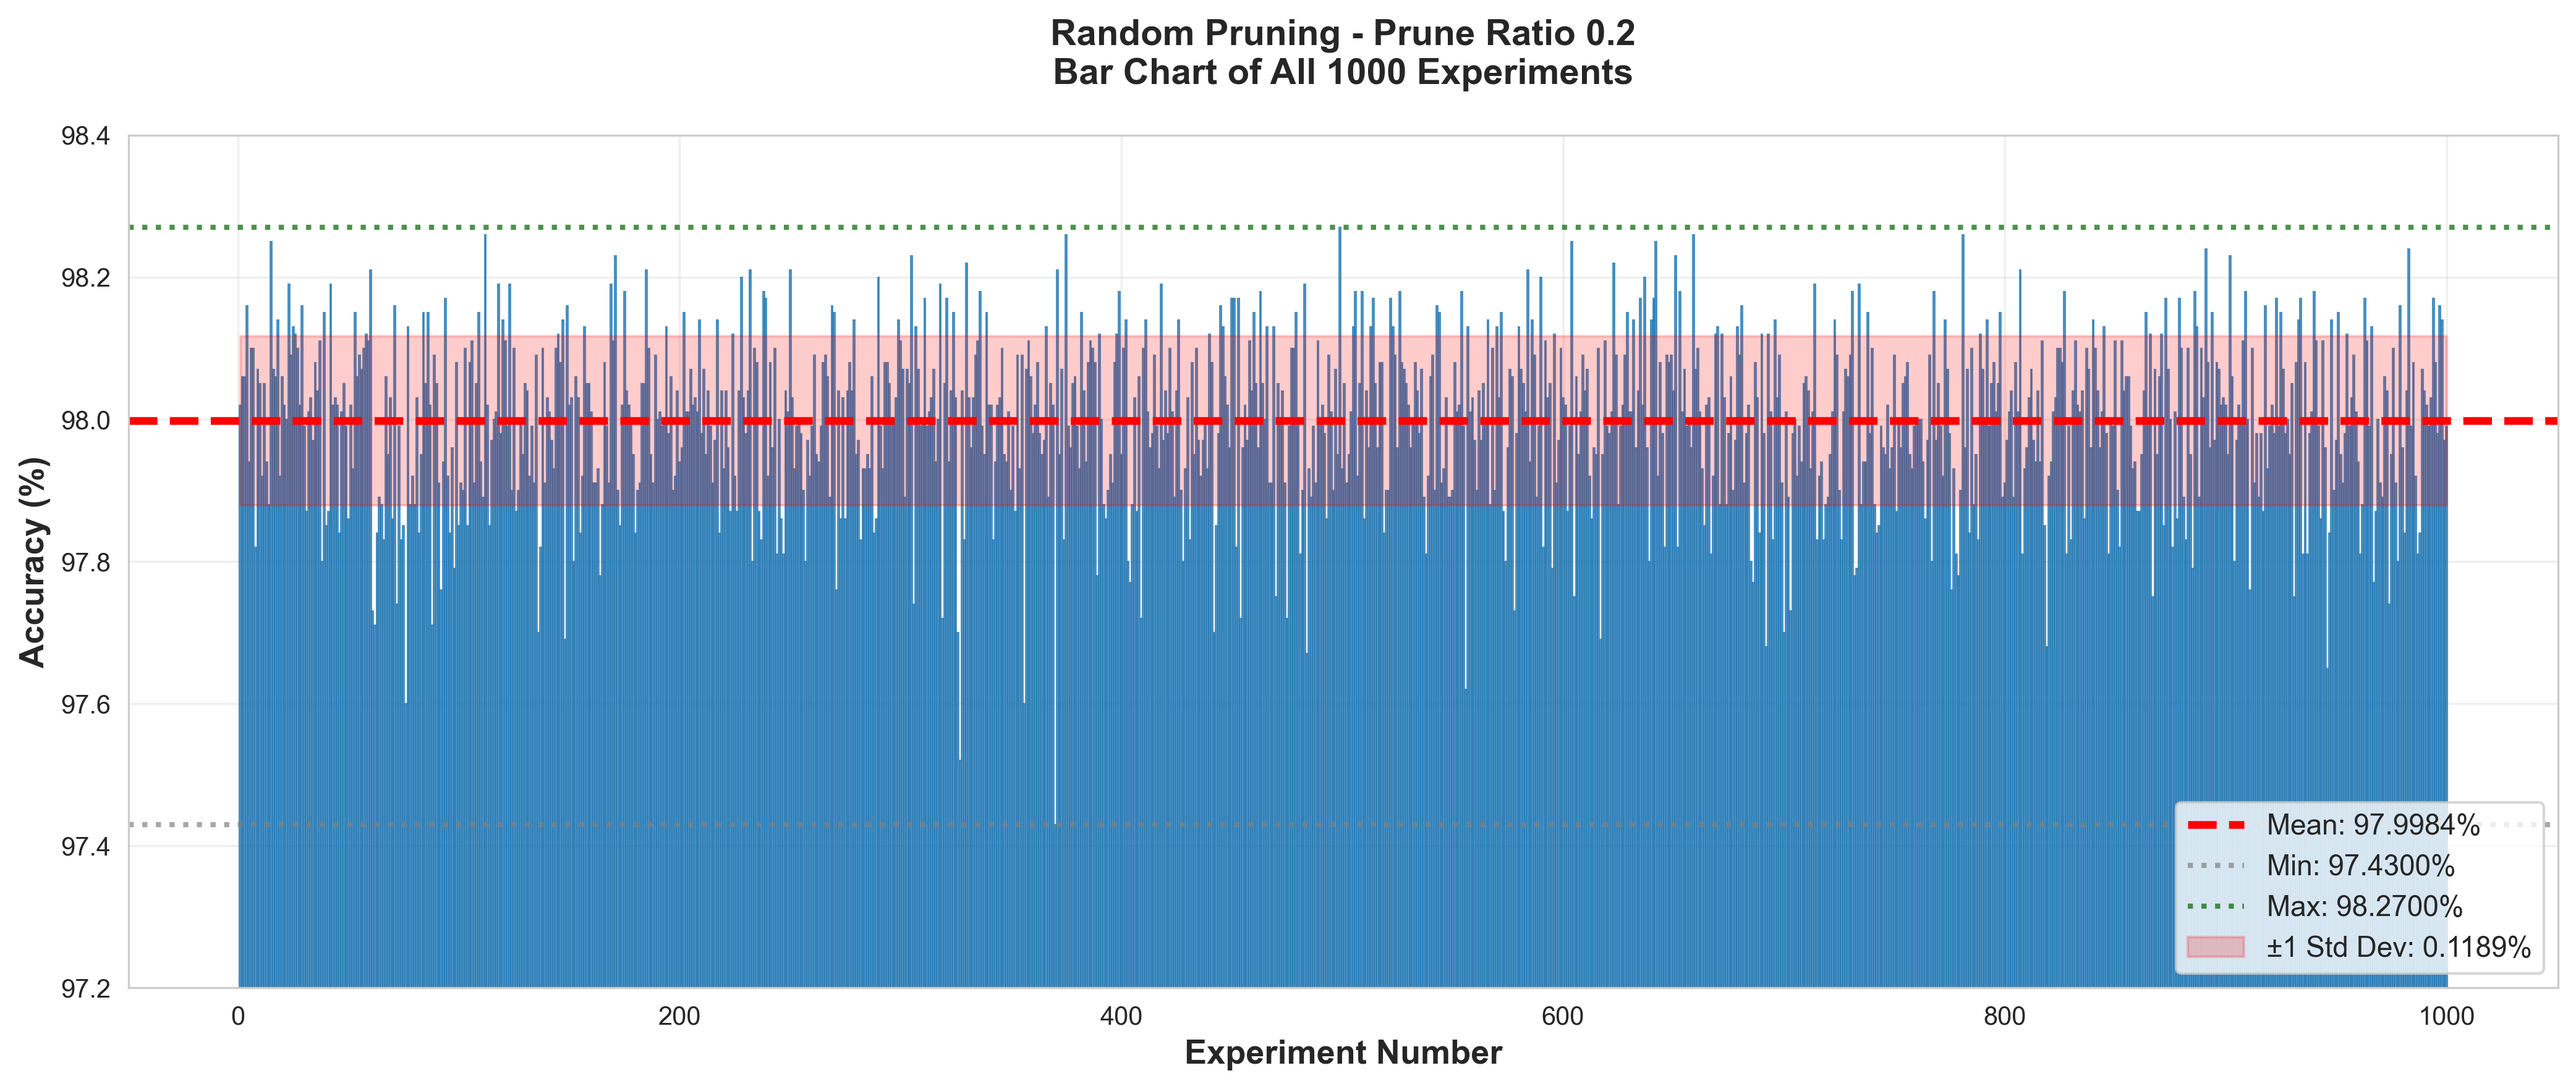
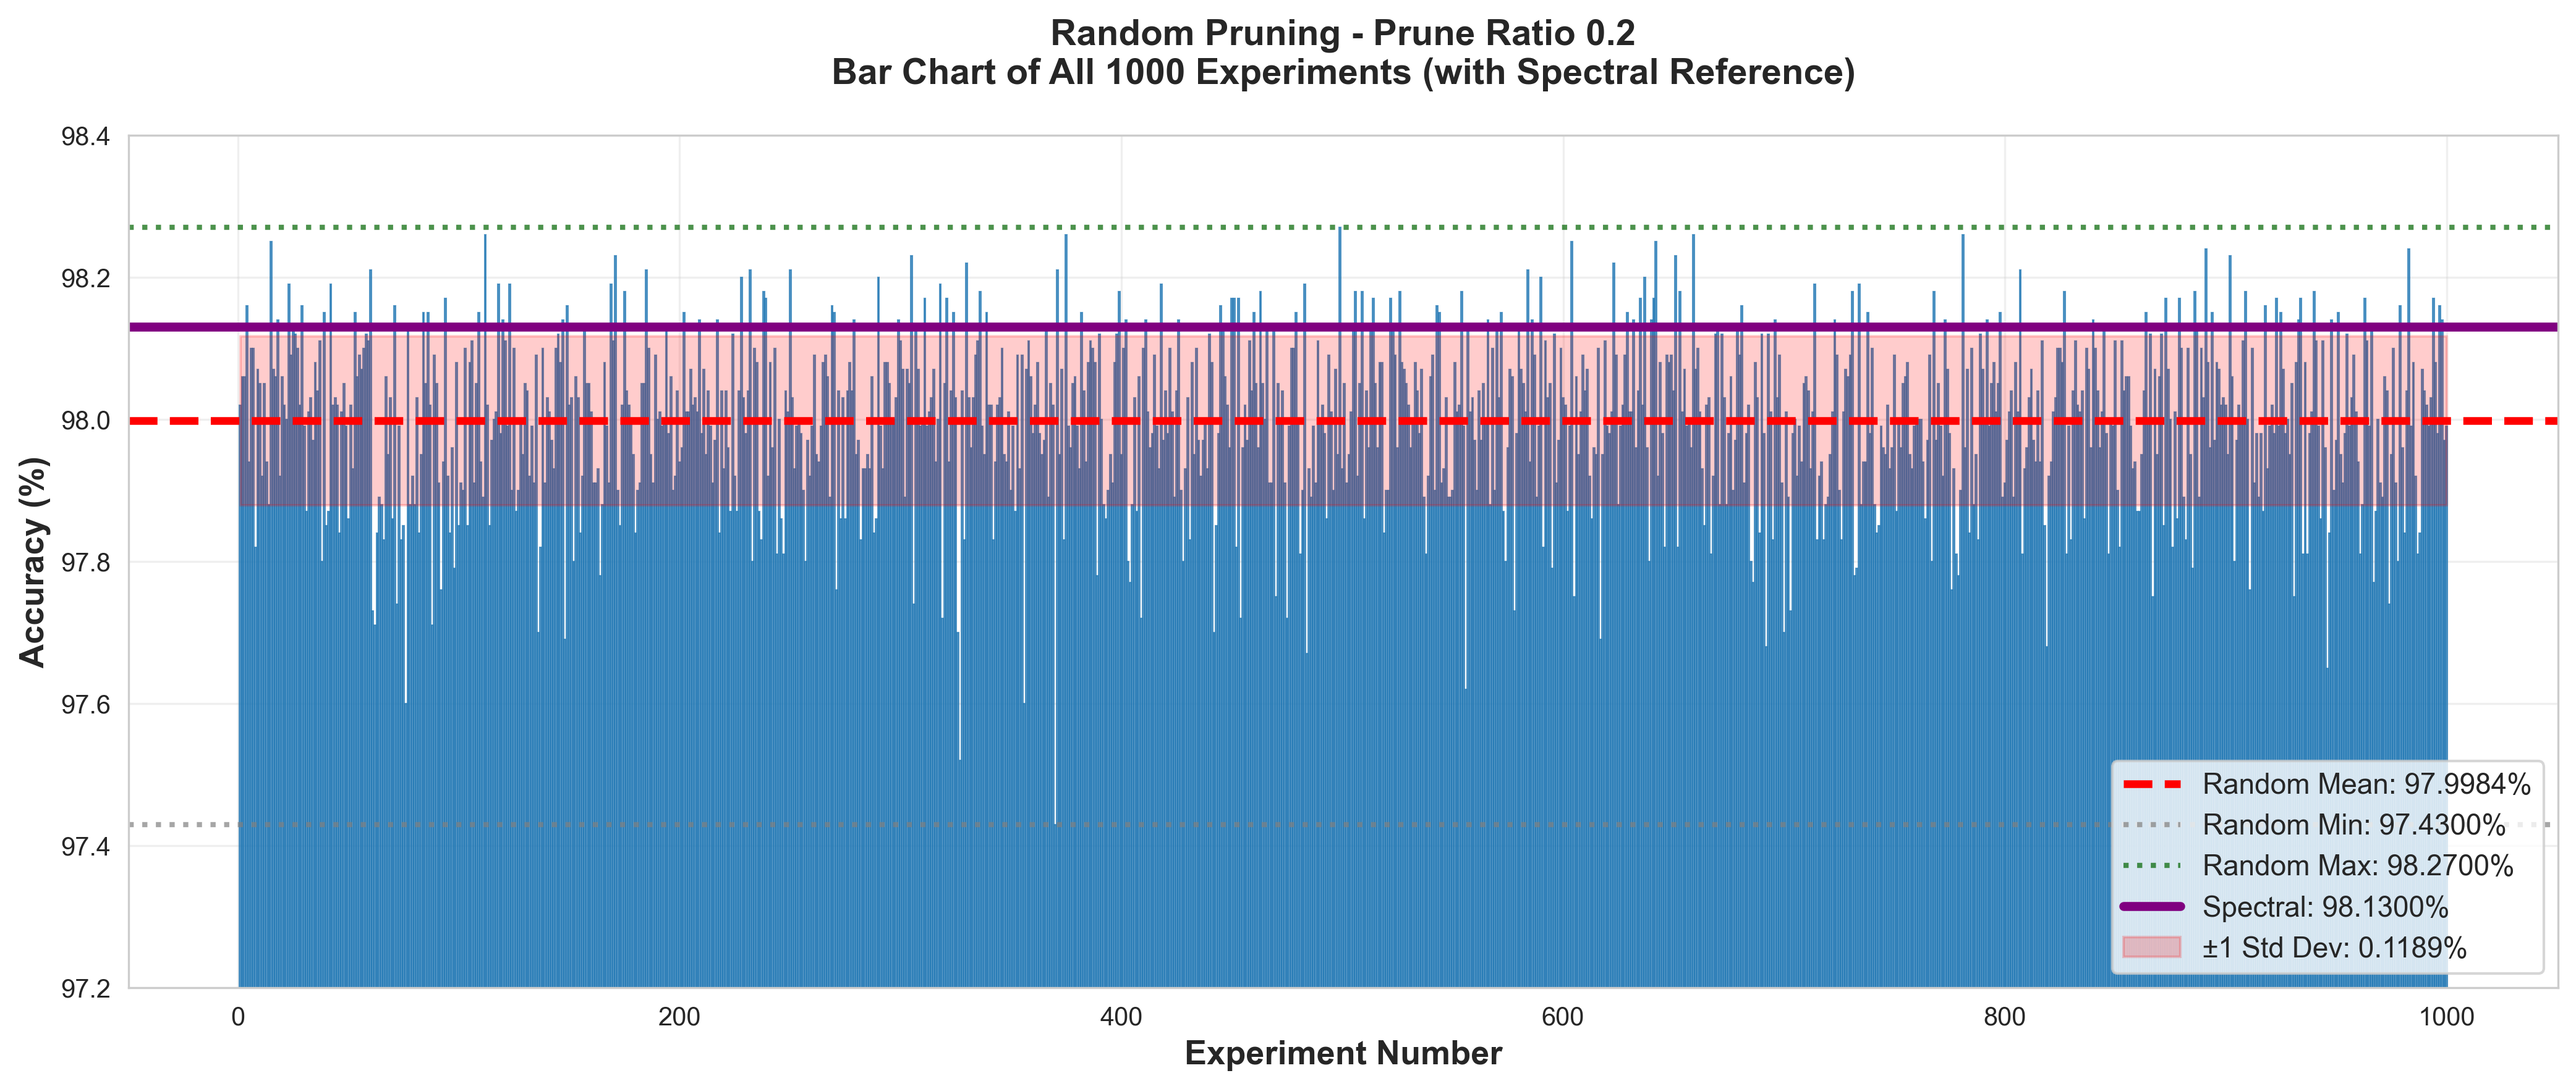
Added the visualizations

Changed region(s): [[0.8111, 0.6863, 0.9983, 0.9047], [0.0312, 0.2808, 0.9983, 0.312], [0.312, 0.0312, 0.7175, 0.0936]]

diff --git a/Results/final output/random_1000_detailed_sequential.py b/Results/final output/random_1000_detailed_sequential.py
@@ -15,12 +15,21 @@ random_02 = df[(df['Method'] == 'Random') & (df['Prune_Ratio'] == 0.2)]
 random_03 = df[(df['Method'] == 'Random') & (df['Prune_Ratio'] == 0.3)]
 random_04 = df[(df['Method'] == 'Random') & (df['Prune_Ratio'] == 0.4)]
 
+# Get spectral values for reference
+spectral_02 = df[(df['Method'] == 'Spectral') & (df['Prune_Ratio'] == 0.2)]['Accuracy_After_Finetuning'].values[0]
+spectral_03 = df[(df['Method'] == 'Spectral') & (df['Prune_Ratio'] == 0.3)]['Accuracy_After_Finetuning'].values[0]
+spectral_04 = df[(df['Method'] == 'Spectral') & (df['Prune_Ratio'] == 0.4)]['Accuracy_After_Finetuning'].values[0]
+
 print("=" * 80)
 print("RANDOM METHOD - 1000 EXPERIMENTS VISUALIZATION (Sequential Mode)")
 print("=" * 80)
 print(f"\nRandom 0.2: {len(random_02)} experiments")
 print(f"Random 0.3: {len(random_03)} experiments")
 print(f"Random 0.4: {len(random_04)} experiments")
+print(f"\nSpectral Reference Values:")
+print(f"  Spectral 0.2: {spectral_02:.4f}%")
+print(f"  Spectral 0.3: {spectral_03:.4f}%")
+print(f"  Spectral 0.4: {spectral_04:.4f}%")
 print("\nEach graph will appear one by one. Close the window to see the next visualization.\n")
 
 # Color mapping
@@ -42,17 +51,19 @@ max_acc = data_sorted['Accuracy_After_Finetuning'].max()
 std_acc = data_sorted['Accuracy_After_Finetuning'].std()
 
 ax.axhline(y=mean_acc, color='red', linestyle='--', linewidth=3,
-          label=f'Mean: {mean_acc:.4f}%')
+          label=f'Random Mean: {mean_acc:.4f}%')
 ax.axhline(y=min_acc, color='gray', linestyle=':', linewidth=2, alpha=0.7,
-          label=f'Min: {min_acc:.4f}%')
+          label=f'Random Min: {min_acc:.4f}%')
 ax.axhline(y=max_acc, color='darkgreen', linestyle=':', linewidth=2, alpha=0.7,
-          label=f'Max: {max_acc:.4f}%')
+          label=f'Random Max: {max_acc:.4f}%')
+ax.axhline(y=spectral_02, color='purple', linestyle='-', linewidth=3.5,
+          label=f'Spectral: {spectral_02:.4f}%')
 ax.fill_between(experiment_nums, mean_acc - std_acc, mean_acc + std_acc,
                 alpha=0.2, color='red', label=f'±1 Std Dev: {std_acc:.4f}%')
 
 ax.set_xlabel('Experiment Number', fontsize=13, fontweight='bold')
 ax.set_ylabel('Accuracy (%)', fontsize=13, fontweight='bold')
-ax.set_title('Random Pruning - Prune Ratio 0.2\nBar Chart of All 1000 Experiments',
+ax.set_title('Random Pruning - Prune Ratio 0.2\nBar Chart of All 1000 Experiments (with Spectral Reference)',
             fontsize=14, fontweight='bold', pad=20)
 ax.legend(fontsize=11, loc='lower right')
 ax.grid(True, alpha=0.3)
@@ -79,17 +90,19 @@ max_acc = data_sorted['Accuracy_After_Finetuning'].max()
 std_acc = data_sorted['Accuracy_After_Finetuning'].std()
 
 ax.axhline(y=mean_acc, color='red', linestyle='--', linewidth=3,
-          label=f'Mean: {mean_acc:.4f}%')
+          label=f'Random Mean: {mean_acc:.4f}%')
 ax.axhline(y=min_acc, color='gray', linestyle=':', linewidth=2, alpha=0.7,
-          label=f'Min: {min_acc:.4f}%')
+          label=f'Random Min: {min_acc:.4f}%')
 ax.axhline(y=max_acc, color='darkgreen', linestyle=':', linewidth=2, alpha=0.7,
-          label=f'Max: {max_acc:.4f}%')
+          label=f'Random Max: {max_acc:.4f}%')
+ax.axhline(y=spectral_03, color='purple', linestyle='-', linewidth=3.5,
+          label=f'Spectral: {spectral_03:.4f}%')
 ax.fill_between(experiment_nums, mean_acc - std_acc, mean_acc + std_acc,
                 alpha=0.2, color='red', label=f'±1 Std Dev: {std_acc:.4f}%')
 
 ax.set_xlabel('Experiment Number', fontsize=13, fontweight='bold')
 ax.set_ylabel('Accuracy (%)', fontsize=13, fontweight='bold')
-ax.set_title('Random Pruning - Prune Ratio 0.3\nBar Chart of All 1000 Experiments',
+ax.set_title('Random Pruning - Prune Ratio 0.3\nBar Chart of All 1000 Experiments (with Spectral Reference)',
             fontsize=14, fontweight='bold', pad=20)
 ax.legend(fontsize=11, loc='lower right')
 ax.grid(True, alpha=0.3)
@@ -116,17 +129,19 @@ max_acc = data_sorted['Accuracy_After_Finetuning'].max()
 std_acc = data_sorted['Accuracy_After_Finetuning'].std()
 
 ax.axhline(y=mean_acc, color='red', linestyle='--', linewidth=3,
-          label=f'Mean: {mean_acc:.4f}%')
+          label=f'Random Mean: {mean_acc:.4f}%')
 ax.axhline(y=min_acc, color='gray', linestyle=':', linewidth=2, alpha=0.7,
-          label=f'Min: {min_acc:.4f}%')
+          label=f'Random Min: {min_acc:.4f}%')
 ax.axhline(y=max_acc, color='darkgreen', linestyle=':', linewidth=2, alpha=0.7,
-          label=f'Max: {max_acc:.4f}%')
+          label=f'Random Max: {max_acc:.4f}%')
+ax.axhline(y=spectral_04, color='purple', linestyle='-', linewidth=3.5,
+          label=f'Spectral: {spectral_04:.4f}%')
 ax.fill_between(experiment_nums, mean_acc - std_acc, mean_acc + std_acc,
                 alpha=0.2, color='red', label=f'±1 Std Dev: {std_acc:.4f}%')
 
 ax.set_xlabel('Experiment Number', fontsize=13, fontweight='bold')
 ax.set_ylabel('Accuracy (%)', fontsize=13, fontweight='bold')
-ax.set_title('Random Pruning - Prune Ratio 0.4\nBar Chart of All 1000 Experiments',
+ax.set_title('Random Pruning - Prune Ratio 0.4\nBar Chart of All 1000 Experiments (with Spectral Reference)',
             fontsize=14, fontweight='bold', pad=20)
 ax.legend(fontsize=11, loc='lower right')
 ax.grid(True, alpha=0.3)
@@ -248,39 +263,116 @@ plt.savefig('Random_0.4_Histogram.png', dpi=300, bbox_inches='tight', facecolor=
 print("  ✓ Saved as 'Random_0.4_Histogram.png'")
 plt.show()
 
-# ===== VISUALIZATION 7: Box Plot Comparison =====
-print("\nGraph 7/9: Box Plot Comparison (All 3 Ratios)")
-fig, ax = plt.subplots(figsize=(12, 7))
+# ===== VISUALIZATION 7: Box Plot - Prune Ratio 0.2 =====
+print("\nGraph 7/9: Box Plot - Random Prune Ratio 0.2")
+fig, ax = plt.subplots(figsize=(10, 7))
 
-data_list = [random_02['Accuracy_After_Finetuning'].values,
-             random_03['Accuracy_After_Finetuning'].values,
-             random_04['Accuracy_After_Finetuning'].values]
-labels = ['Prune Ratio 0.2\n(1000 experiments)', 
-          'Prune Ratio 0.3\n(1000 experiments)', 
-          'Prune Ratio 0.4\n(1000 experiments)']
+data_02 = random_02['Accuracy_After_Finetuning'].values
+bp = ax.boxplot([data_02], labels=['Prune Ratio 0.2\n(1000 experiments)'], 
+                patch_artist=True, widths=0.6, showmeans=True, meanline=True)
 
-bp = ax.boxplot(data_list, labels=labels, patch_artist=True, widths=0.6,
-                showmeans=True, meanline=True)
-
-for patch, color in zip(bp['boxes'], [colors[0.2], colors[0.3], colors[0.4]]):
-    patch.set_facecolor(color)
+for patch in bp['boxes']:
+    patch.set_facecolor(colors[0.2])
     patch.set_alpha(0.7)
 
 for element in ['whiskers', 'fliers', 'means', 'medians', 'caps']:
     plt.setp(bp[element], color='black', linewidth=2)
 
+# Add Spectral reference line
+ax.axhline(y=spectral_02, color='purple', linestyle='-', linewidth=3.5, alpha=0.9,
+          label=f'Spectral: {spectral_02:.4f}%')
+
+# Add statistics text
+stats_text = f'Mean: {data_02.mean():.4f}%\nMedian: {np.median(data_02):.4f}%\nStd: {data_02.std():.4f}%\nMin: {data_02.min():.4f}%\nMax: {data_02.max():.4f}%'
+ax.text(1.35, data_02.min() + 0.15, stats_text, fontsize=10, 
+       bbox=dict(boxstyle='round', facecolor='wheat', alpha=0.8))
+
 ax.set_ylabel('Accuracy (%)', fontsize=13, fontweight='bold')
-ax.set_title('Box Plot Comparison - Random Pruning Across All Prune Ratios\n(1000 Experiments Each)',
+ax.set_title('Box Plot - Random Pruning Prune Ratio 0.2 with Spectral Reference\n(1000 Random Experiments)',
             fontsize=14, fontweight='bold', pad=20)
+ax.legend(fontsize=12, loc='upper right')
 ax.grid(True, alpha=0.3, axis='y')
+ax.set_ylim([97.2, 98.4])
 
 plt.tight_layout()
-plt.savefig('Random_BoxPlot_Comparison.png', dpi=300, bbox_inches='tight', facecolor='white')
-print("  ✓ Saved as 'Random_BoxPlot_Comparison.png'")
+plt.savefig('Random_0.2_BoxPlot.png', dpi=300, bbox_inches='tight', facecolor='white')
+print("  ✓ Saved as 'Random_0.2_BoxPlot.png'")
 plt.show()
 
-# ===== VISUALIZATION 8: Training Time Histogram =====
-print("\nGraph 8/9: Training Time Distribution (All 3000 Experiments)")
+# ===== VISUALIZATION 8: Box Plot - Prune Ratio 0.3 =====
+print("\nGraph 8/9: Box Plot - Random Prune Ratio 0.3")
+fig, ax = plt.subplots(figsize=(10, 7))
+
+data_03 = random_03['Accuracy_After_Finetuning'].values
+bp = ax.boxplot([data_03], labels=['Prune Ratio 0.3\n(1000 experiments)'], 
+                patch_artist=True, widths=0.6, showmeans=True, meanline=True)
+
+for patch in bp['boxes']:
+    patch.set_facecolor(colors[0.3])
+    patch.set_alpha(0.7)
+
+for element in ['whiskers', 'fliers', 'means', 'medians', 'caps']:
+    plt.setp(bp[element], color='black', linewidth=2)
+
+# Add Spectral reference line
+ax.axhline(y=spectral_03, color='darkviolet', linestyle='-', linewidth=3.5, alpha=0.9,
+          label=f'Spectral: {spectral_03:.4f}%')
+
+# Add statistics text
+stats_text = f'Mean: {data_03.mean():.4f}%\nMedian: {np.median(data_03):.4f}%\nStd: {data_03.std():.4f}%\nMin: {data_03.min():.4f}%\nMax: {data_03.max():.4f}%'
+ax.text(1.35, data_03.min() + 0.15, stats_text, fontsize=10, 
+       bbox=dict(boxstyle='round', facecolor='wheat', alpha=0.8))
+
+ax.set_ylabel('Accuracy (%)', fontsize=13, fontweight='bold')
+ax.set_title('Box Plot - Random Pruning Prune Ratio 0.3 with Spectral Reference\n(1000 Random Experiments)',
+            fontsize=14, fontweight='bold', pad=20)
+ax.legend(fontsize=12, loc='upper right')
+ax.grid(True, alpha=0.3, axis='y')
+ax.set_ylim([97.2, 98.4])
+
+plt.tight_layout()
+plt.savefig('Random_0.3_BoxPlot.png', dpi=300, bbox_inches='tight', facecolor='white')
+print("  ✓ Saved as 'Random_0.3_BoxPlot.png'")
+plt.show()
+
+# ===== VISUALIZATION 9: Box Plot - Prune Ratio 0.4 =====
+print("\nGraph 9/9: Box Plot - Random Prune Ratio 0.4")
+fig, ax = plt.subplots(figsize=(10, 7))
+
+data_04 = random_04['Accuracy_After_Finetuning'].values
+bp = ax.boxplot([data_04], labels=['Prune Ratio 0.4\n(1000 experiments)'], 
+                patch_artist=True, widths=0.6, showmeans=True, meanline=True)
+
+for patch in bp['boxes']:
+    patch.set_facecolor(colors[0.4])
+    patch.set_alpha(0.7)
+
+for element in ['whiskers', 'fliers', 'means', 'medians', 'caps']:
+    plt.setp(bp[element], color='black', linewidth=2)
+
+# Add Spectral reference line
+ax.axhline(y=spectral_04, color='indigo', linestyle='-', linewidth=3.5, alpha=0.9,
+          label=f'Spectral: {spectral_04:.4f}%')
+
+# Add statistics text
+stats_text = f'Mean: {data_04.mean():.4f}%\nMedian: {np.median(data_04):.4f}%\nStd: {data_04.std():.4f}%\nMin: {data_04.min():.4f}%\nMax: {data_04.max():.4f}%'
+ax.text(1.35, data_04.min() + 0.15, stats_text, fontsize=10, 
+       bbox=dict(boxstyle='round', facecolor='wheat', alpha=0.8))
+
+ax.set_ylabel('Accuracy (%)', fontsize=13, fontweight='bold')
+ax.set_title('Box Plot - Random Pruning Prune Ratio 0.4 with Spectral Reference\n(1000 Random Experiments)',
+            fontsize=14, fontweight='bold', pad=20)
+ax.legend(fontsize=12, loc='upper right')
+ax.grid(True, alpha=0.3, axis='y')
+ax.set_ylim([97.2, 98.4])
+
+plt.tight_layout()
+plt.savefig('Random_0.4_BoxPlot.png', dpi=300, bbox_inches='tight', facecolor='white')
+print("  ✓ Saved as 'Random_0.4_BoxPlot.png'")
+plt.show()
+
+# ===== VISUALIZATION 10: Training Time Histogram =====
+print("\nGraph 10/11: Training Time Distribution (All 3000 Experiments)")
 fig, ax = plt.subplots(figsize=(14, 6))
 
 all_training_times = pd.concat([random_02, random_03, random_04])['Training_Time_sec']
@@ -315,8 +407,8 @@ plt.savefig('Random_Training_Time_Distribution.png', dpi=300, bbox_inches='tight
 print("  ✓ Saved as 'Random_Training_Time_Distribution.png'")
 plt.show()
 
-# ===== VISUALIZATION 9: Cumulative Distribution Function =====
-print("\nGraph 9/9: Cumulative Distribution Function (CDF)")
+# ===== VISUALIZATION 11: Cumulative Distribution Function =====
+print("\nGraph 11/11: Cumulative Distribution Function (CDF)")
 fig, ax = plt.subplots(figsize=(14, 7))
 
 for ratio, color, label in [(0.2, colors[0.2], 'Prune Ratio 0.2'),
@@ -401,7 +493,9 @@ print("  3. Random_0.4_Bar_Chart.png")
 print("  4. Random_0.2_Histogram.png")
 print("  5. Random_0.3_Histogram.png")
 print("  6. Random_0.4_Histogram.png")
-print("  7. Random_BoxPlot_Comparison.png")
-print("  8. Random_Training_Time_Distribution.png")
-print("  9. Random_CDF_Comparison.png")
+print("  7. Random_0.2_BoxPlot.png")
+print("  8. Random_0.3_BoxPlot.png")
+print("  9. Random_0.4_BoxPlot.png")
+print("  10. Random_Training_Time_Distribution.png")
+print("  11. Random_CDF_Comparison.png")
 print("\n" + "="*80)
